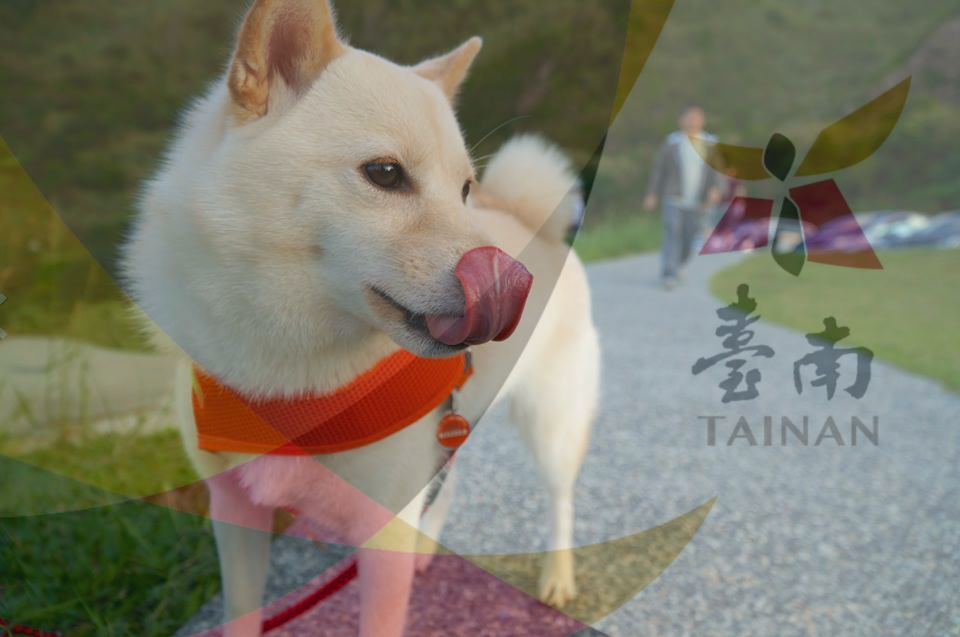
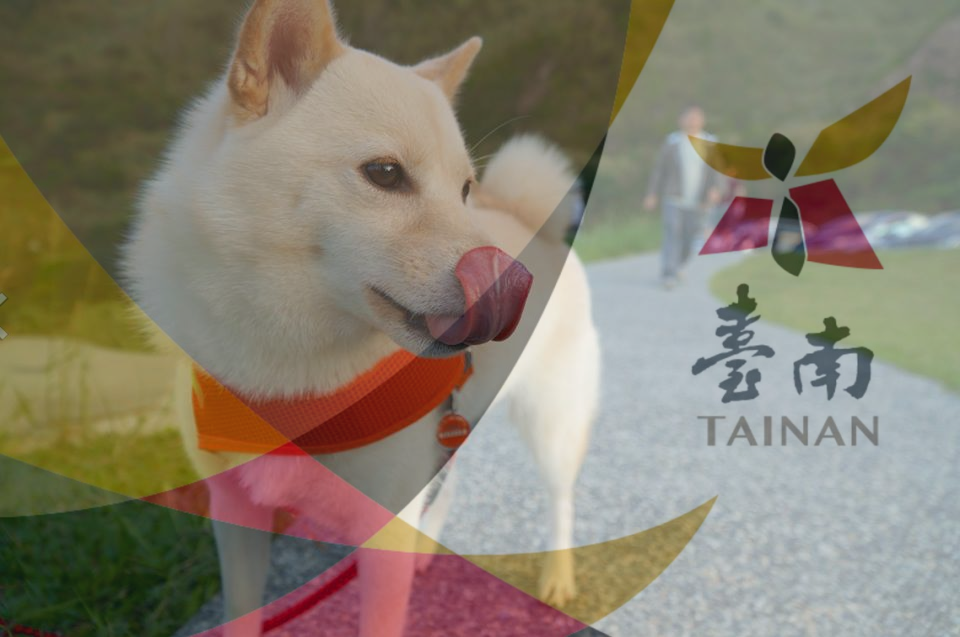
modified parameters

diff --git a/src/Filter.java b/src/Filter.java
@@ -23,7 +23,7 @@ public class Filter {
 
             // paint both images, preserving the alpha channels
             g2d.drawImage(image, 0, 0, null);
-            g2d.setComposite(AlphaComposite.SrcOver.derive(0.25f));
+            g2d.setComposite(AlphaComposite.SrcOver.derive(0.4f));
             g2d.drawImage(tmp, 0, 0, null);
             // Save as new image
             ImageIO.write(combined, "PNG", new File(result));
